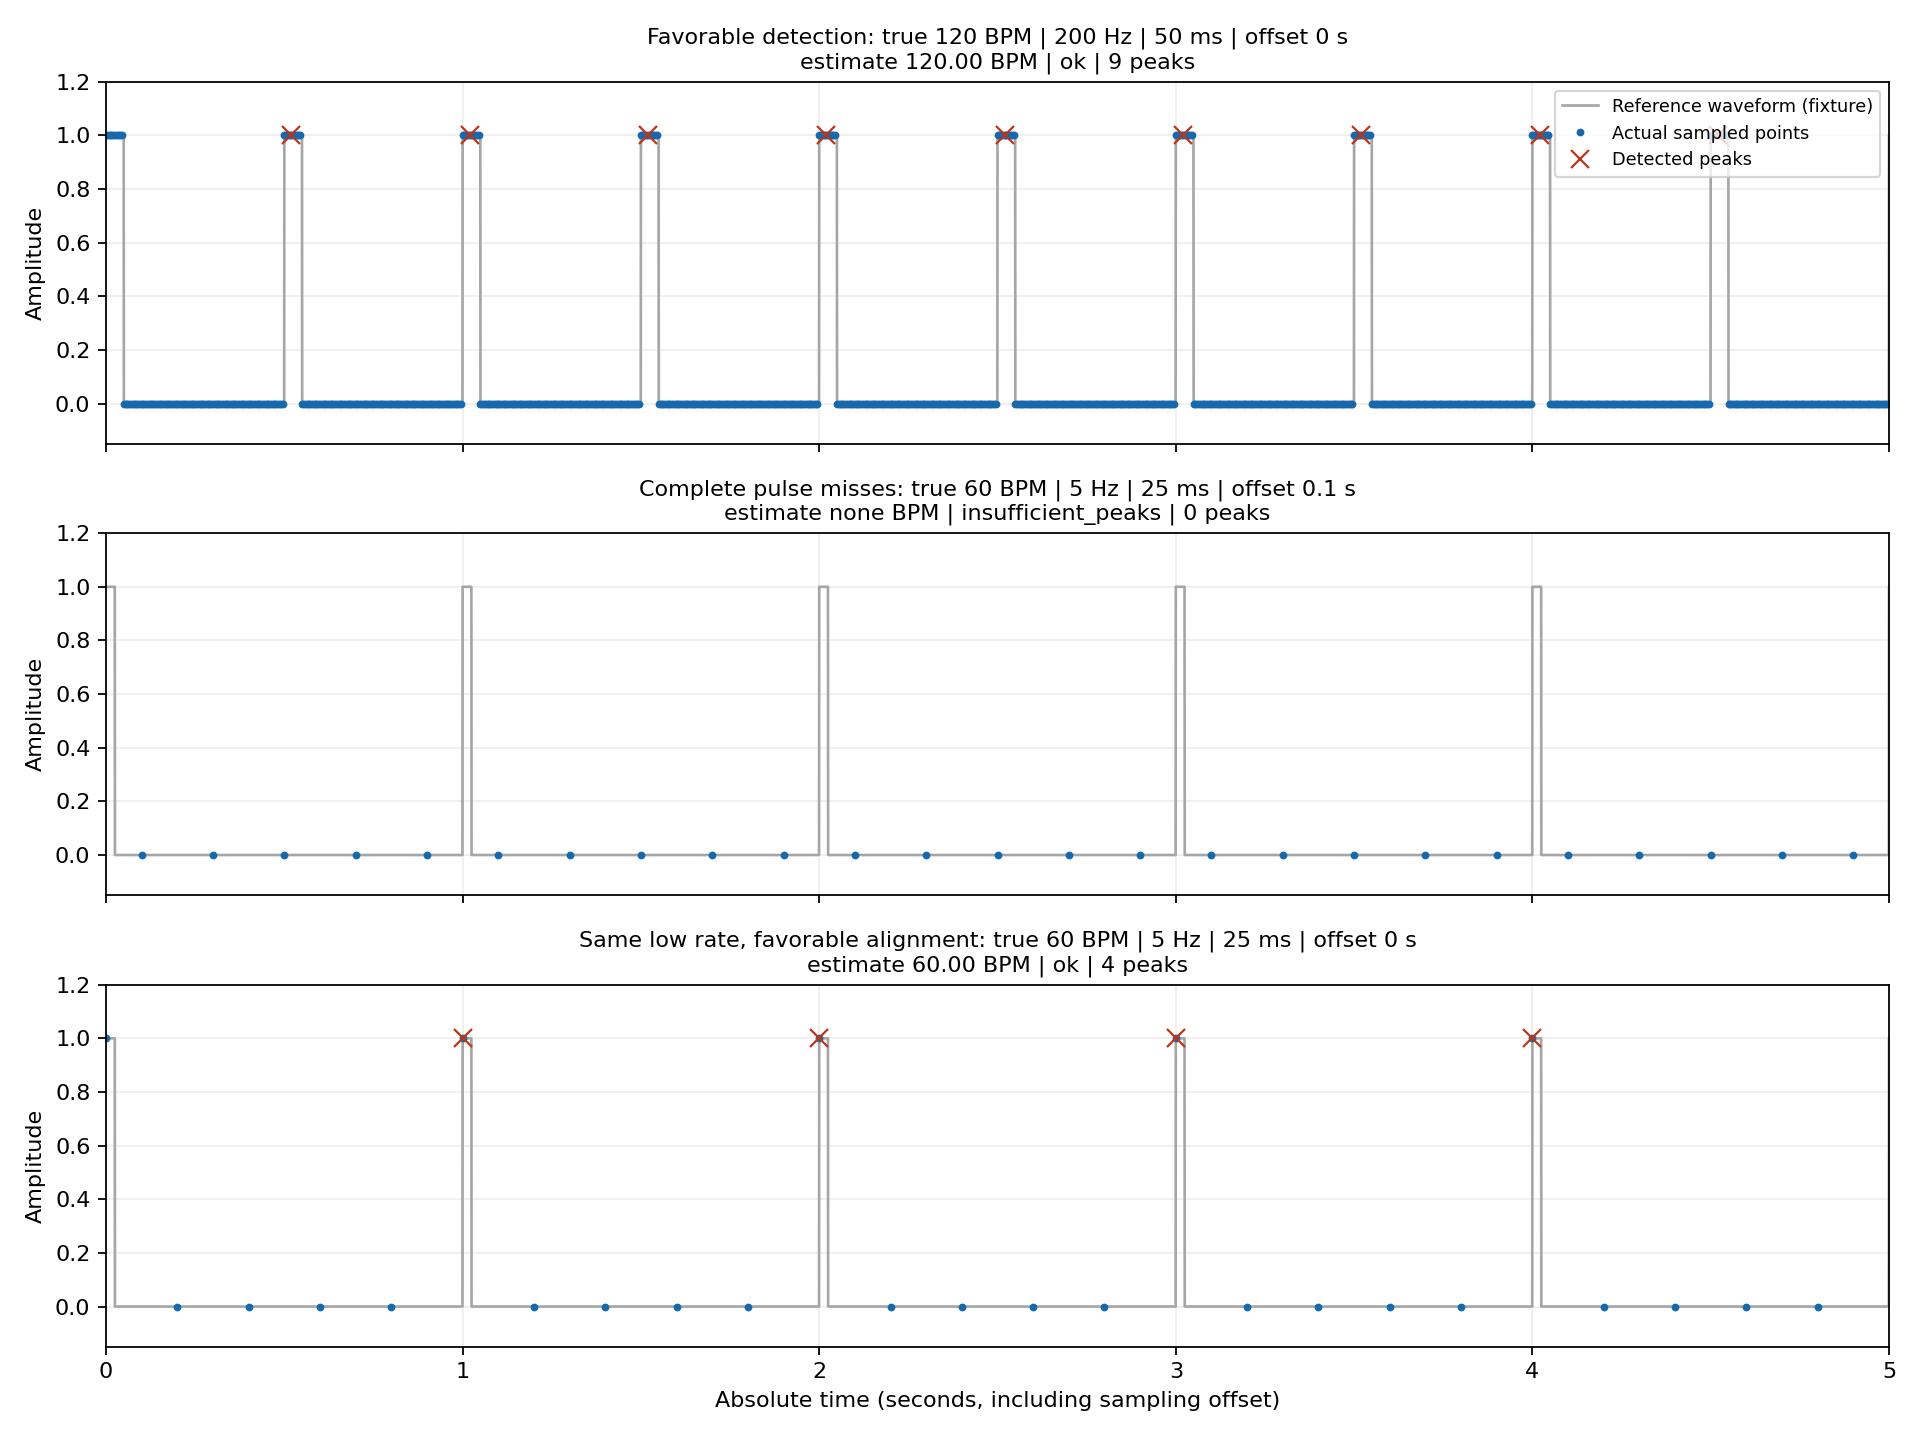
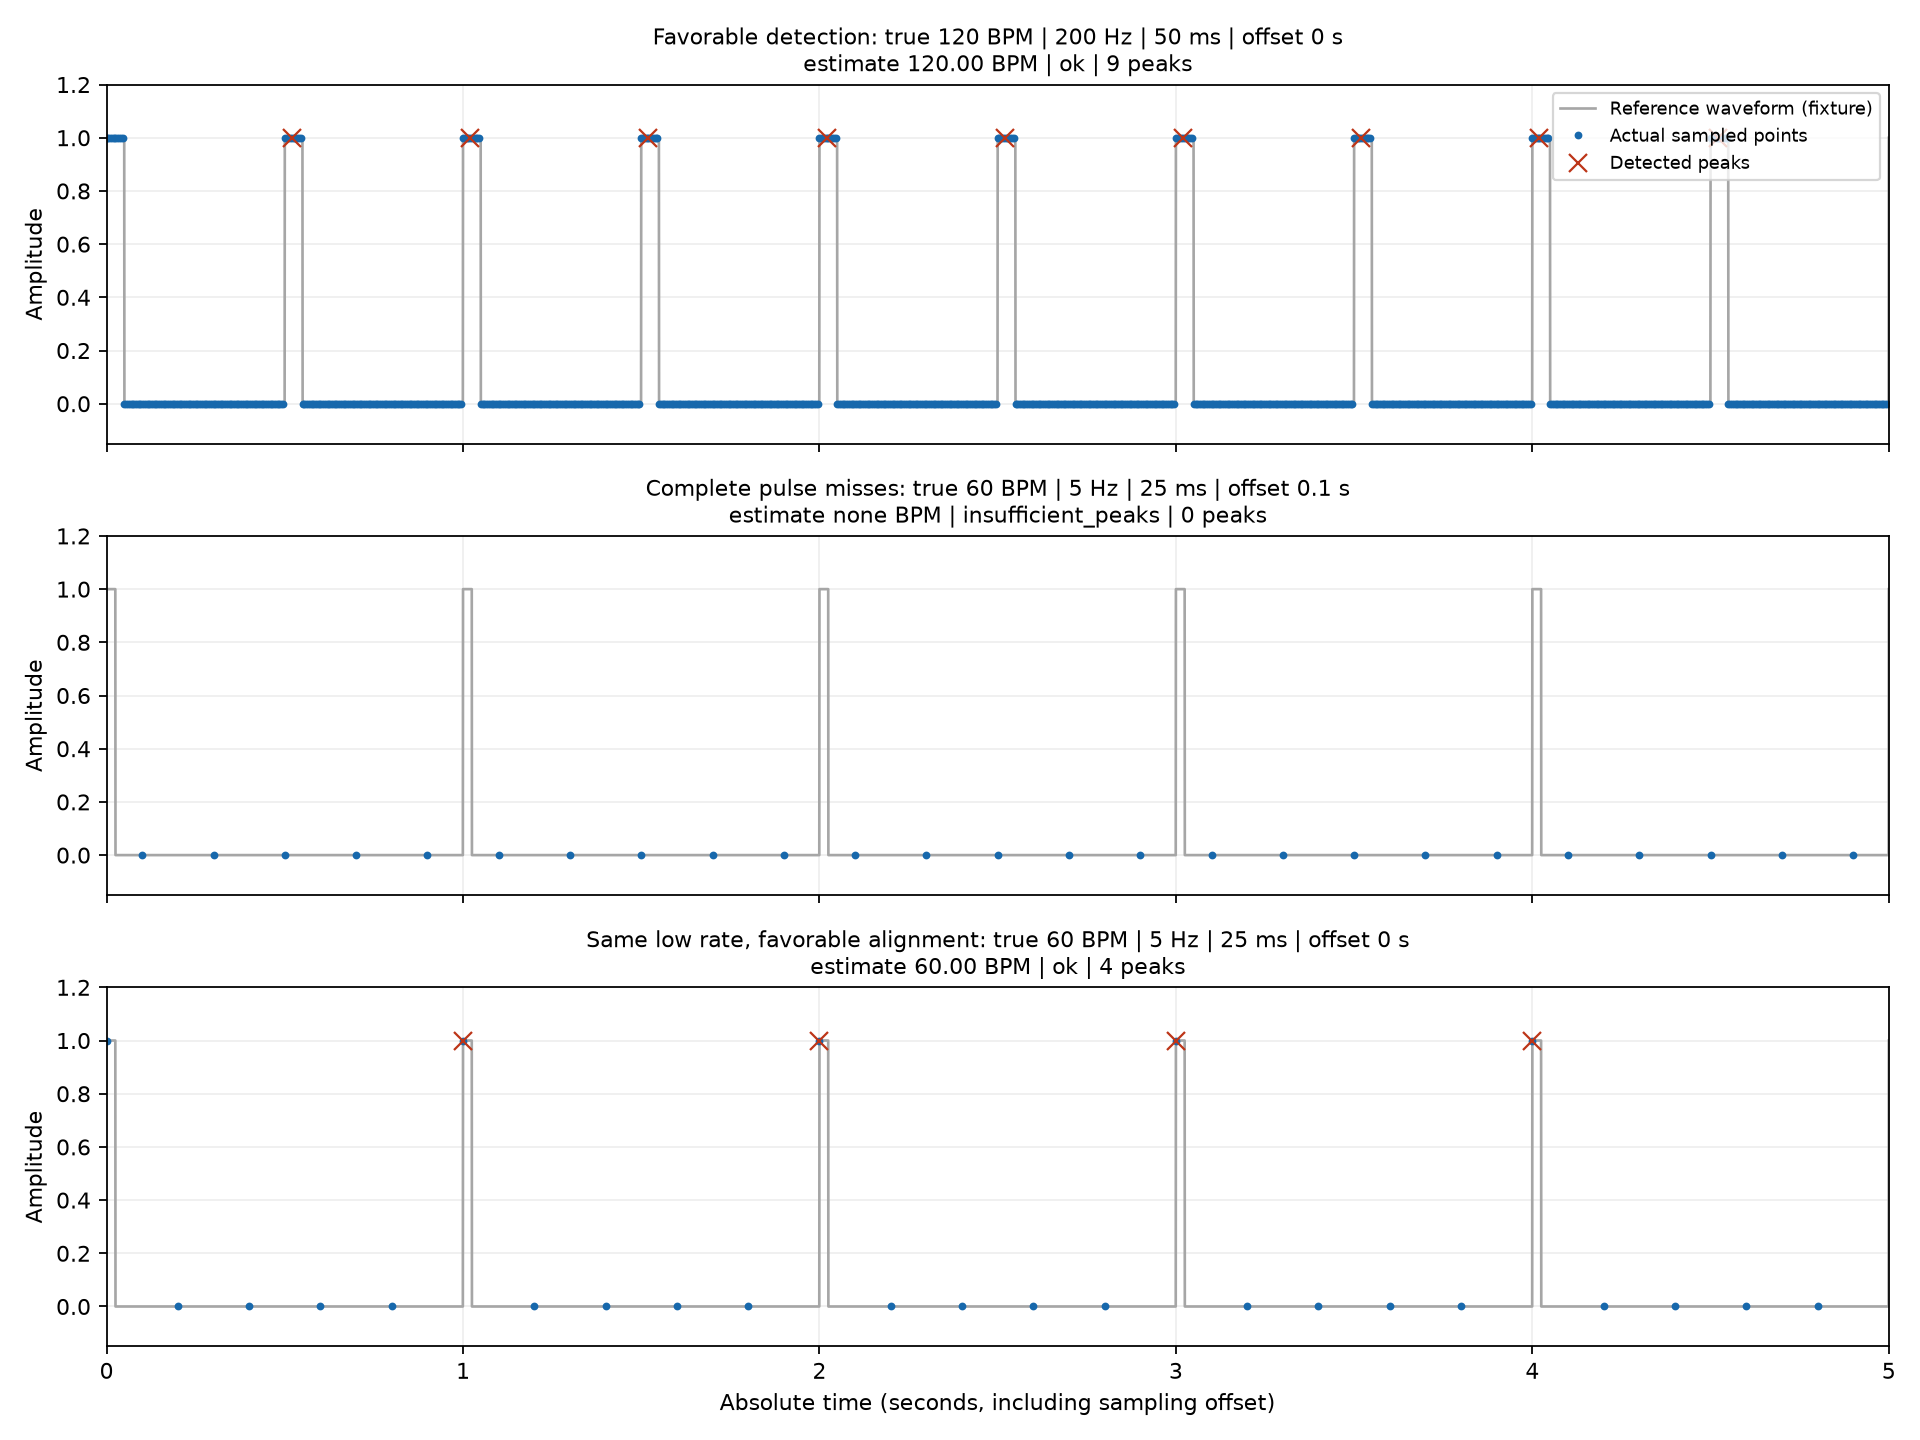
Clarify BPM detector calculations and update demo output

diff --git a/detection.py b/detection.py
@@ -18,33 +18,48 @@ class DetectionResult:
     peak_times_seconds: np.ndarray
 
 
-def estimate_bpm(amplitudes: np.ndarray,
-                 sampling_frequency: float) -> DetectionResult:
-    """Estimate BPM as 60 / median interval between interior local peaks.
-
-    Flat plateaus produce one peak at their midpoint, rounded down. Endpoint
-    plateaus are excluded because both surrounding lower samples are needed.
-    No padding, height, prominence, distance, or width filters are used. Thus no
-    seconds-to-samples threshold conversion is needed. These settings remain
-    identical for every experiment. Missed beats can yield a numeric but wrong
-    estimate; status 'ok' indicates enough peaks, not guaranteed accuracy.
-
-    Args:
-        amplitudes: Finite 1-D sampled values; an empty array is valid.
-        sampling_frequency: Positive finite samples per second.
-
-    Raises:
-        ValueError: Data or sampling frequency is invalid.
-    """
+# Units: sampling_frequency is in Hz; estimated BPM is in beats per minute.
+def estimate_bpm(
+    amplitudes: np.ndarray,
+    sampling_frequency: float,
+) -> DetectionResult:
+    """Estimate BPM from the median time between detected peaks."""
+    # Check the sampling rate before converting sample positions to seconds.
     if not math.isfinite(sampling_frequency) or sampling_frequency <= 0:
         raise ValueError("sampling_frequency must be positive and finite")
-    values = np.asarray(amplitudes, dtype=float)
-    if values.ndim != 1 or not np.all(np.isfinite(values)):
+
+    # Check that the measurements form one array of finite amplitudes.
+    sample_values = np.asarray(amplitudes, dtype=float)
+    if sample_values.ndim != 1 or not np.all(np.isfinite(sample_values)):
         raise ValueError("amplitudes must be a finite one-dimensional array")
-    peaks, _ = signal.find_peaks(values)
-    peak_times = peaks / sampling_frequency
-    if len(peaks) < 2:
-        return DetectionResult(None, peaks, len(peaks), "insufficient_peaks",
-                               peak_times)
-    bpm = float(60 / np.median(np.diff(peak_times)))
-    return DetectionResult(bpm, peaks, len(peaks), "ok", peak_times)
+
+    # Use the same unfiltered detector for every case. Flat peaks count once;
+    # their midpoint is rounded down, and endpoint peaks are excluded.
+    peak_indices, _ = signal.find_peaks(sample_values)
+
+    # Convert peak positions to seconds relative to the first sample.
+    peak_times_seconds = peak_indices / sampling_frequency
+    peak_count = len(peak_indices)
+
+    # At least two peaks are needed to measure a time interval.
+    if peak_count < 2:
+        return DetectionResult(
+            estimated_bpm=None,
+            peak_indices=peak_indices,
+            peak_count=peak_count,
+            status="insufficient_peaks",
+            peak_times_seconds=peak_times_seconds,
+        )
+
+    # Convert the median interval in seconds to beats per minute.
+    peak_intervals_seconds = np.diff(peak_times_seconds)
+    estimated_bpm = float(60 / np.median(peak_intervals_seconds))
+
+    # 'ok' means enough peaks were found; missed beats can still bias the BPM.
+    return DetectionResult(
+        estimated_bpm=estimated_bpm,
+        peak_indices=peak_indices,
+        peak_count=peak_count,
+        status="ok",
+        peak_times_seconds=peak_times_seconds,
+    )
